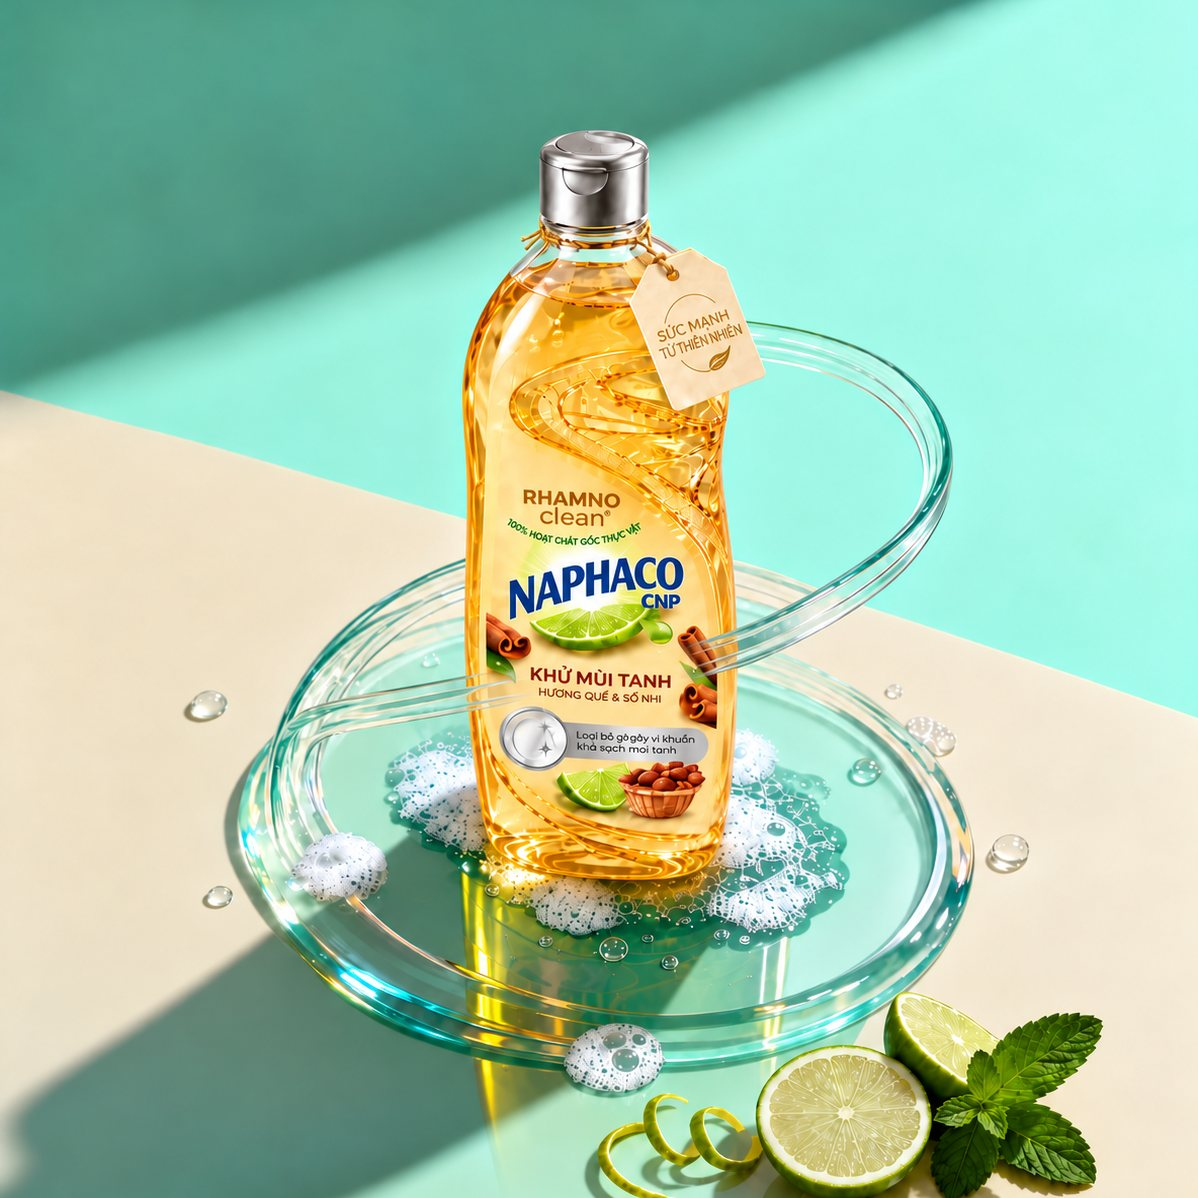
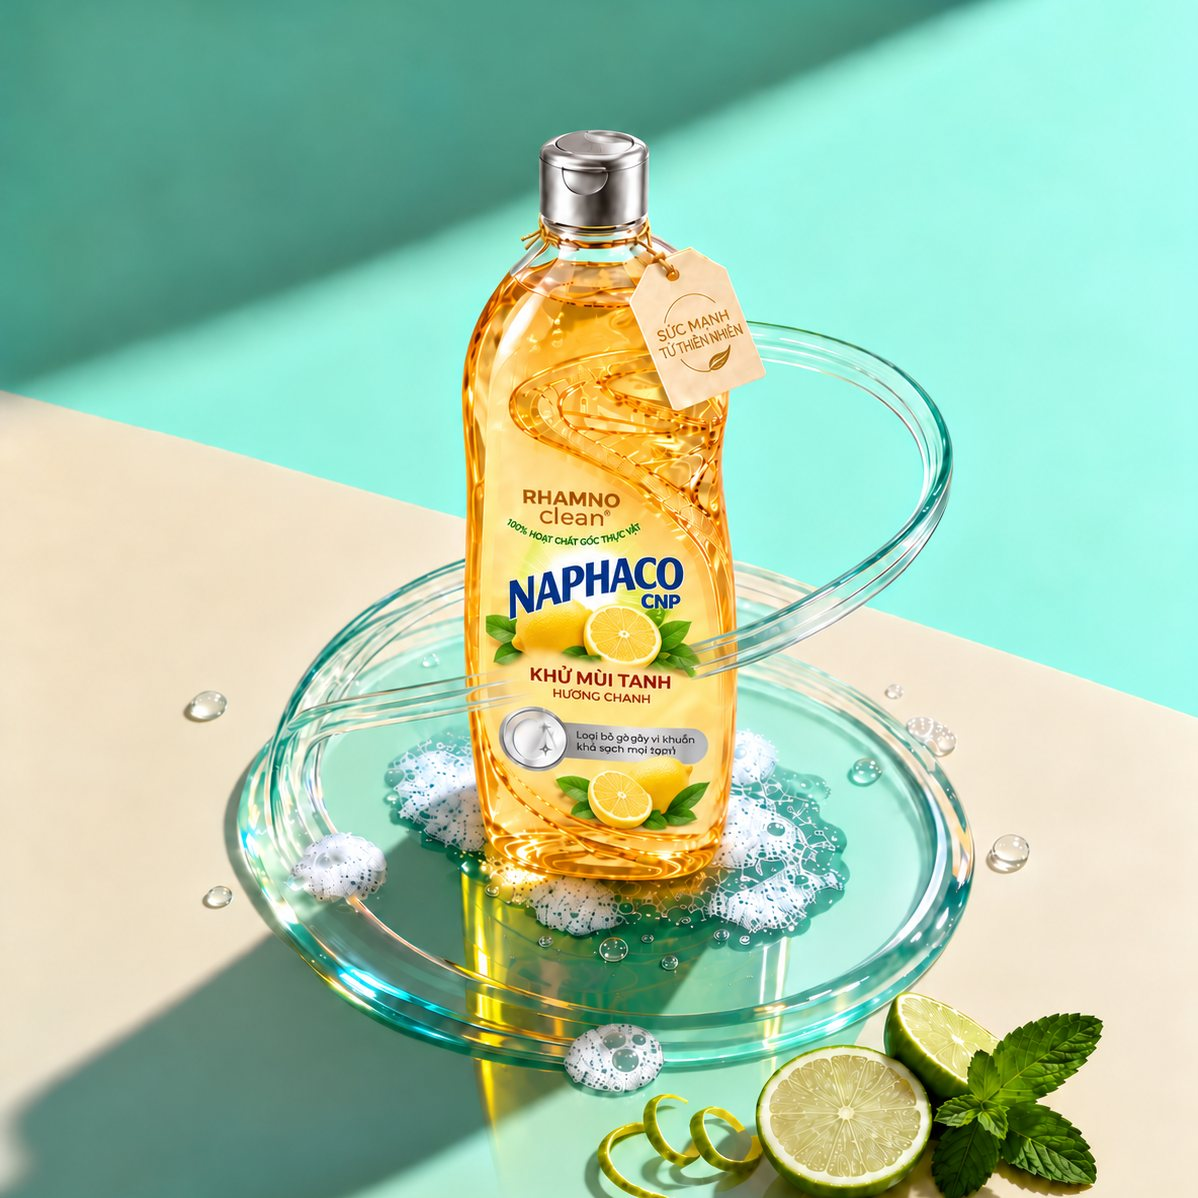
Nước rửa chén: ảnh mới nhãn hương chanh; sw.js v2 để khách đã cài app nhận ảnh mới

diff --git a/sw.js b/sw.js
@@ -3,7 +3,7 @@
    · /assets/ (ảnh, logo): trả bản đã lưu ngay + tải lại ngầm để lần sau có bản mới.
    · Tên miền khác (Google Fonts, GA4, Apps Script đăng ký thành viên…): KHÔNG can thiệp.
    Đổi VERSION khi muốn xoá sạch bộ nhớ đệm cũ của khách. */
-const VERSION = 'v1';
+const VERSION = 'v2';
 const PAGE_CACHE = 'la-page-' + VERSION;
 const ASSET_CACHE = 'la-asset-' + VERSION;
 const ASSET_MAX = 250;
